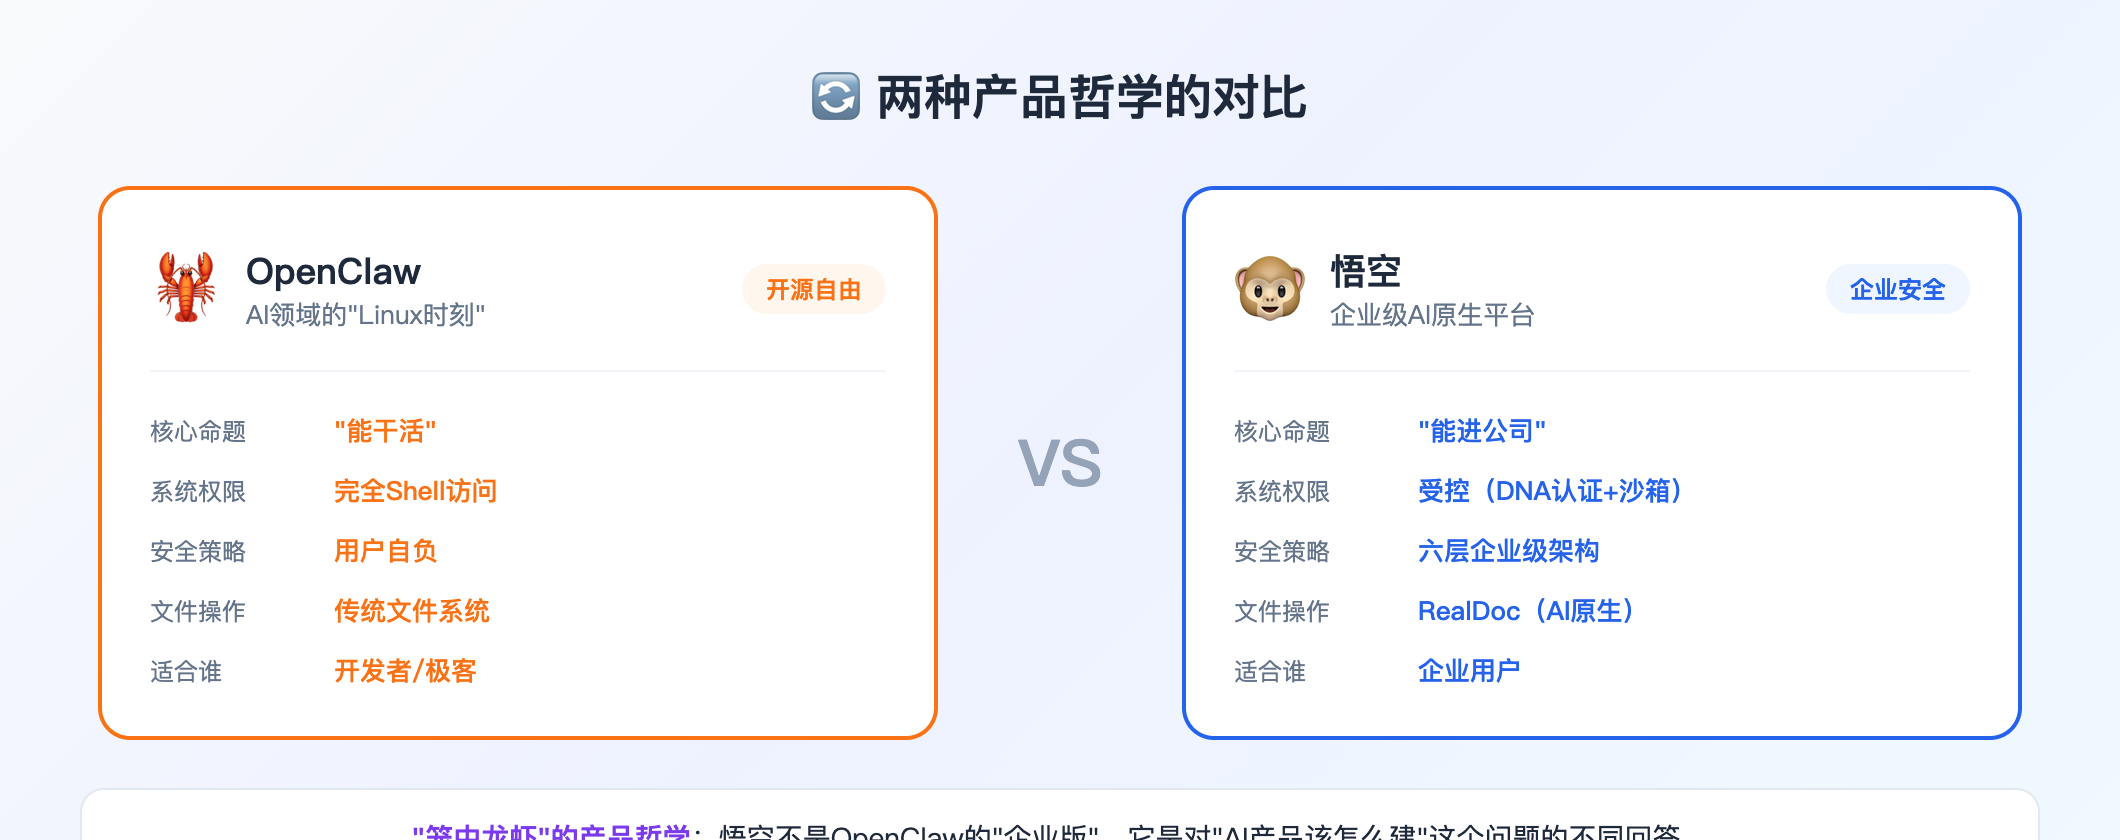
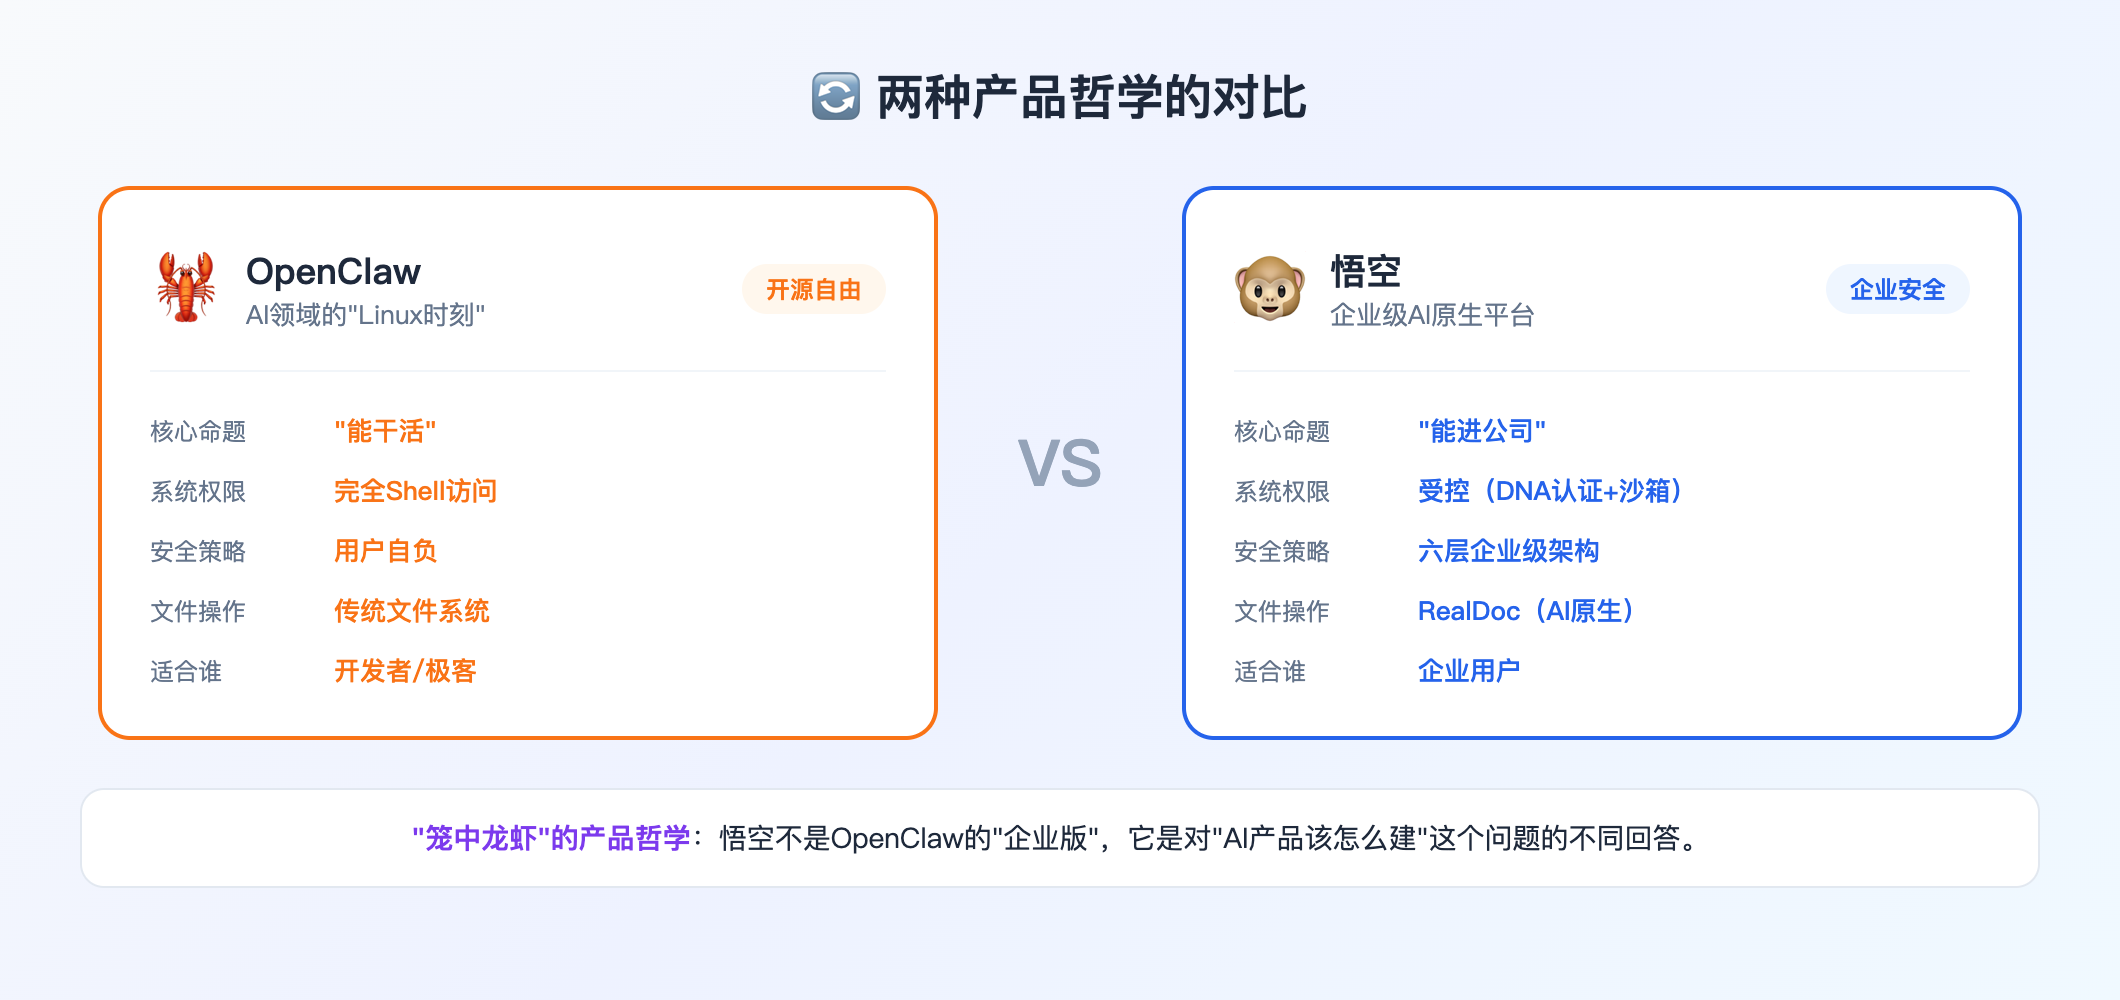
fix: 修复KIM Doc文章截图高度问题
1. 修改标题为：AI产品洞察：与其抄Claw，不如学学悟空，构建更有价值的产品
2. 修复wukong-06-comparison.html高度不足问题（420px→500px）
3. 修复wukong-04-realdoc.html高度不足问题（420px→450px）
4. 重新生成所有7张章节截图

diff --git a/02-deep-research/topics/kim-docs/images/wukong-04-realdoc.html b/02-deep-research/topics/kim-docs/images/wukong-04-realdoc.html
@@ -6,13 +6,13 @@
         * { margin: 0; padding: 0; box-sizing: border-box; }
         html, body { 
             width: 1060px; 
-            height: 420px; 
+            height: 450px; 
             overflow: hidden; 
             font-family: -apple-system, "SF Pro Display", "Noto Sans SC", sans-serif;
         }
         .container {
             width: 1060px;
-            height: 420px;
+            height: 450px;
             background: linear-gradient(135deg, #f8fafc 0%, #eef2ff 50%, #f0f9ff 100%);
             padding: 32px 40px;
         }

diff --git a/02-deep-research/topics/kim-docs/images/wukong-06-comparison.html b/02-deep-research/topics/kim-docs/images/wukong-06-comparison.html
@@ -6,13 +6,13 @@
         * { margin: 0; padding: 0; box-sizing: border-box; }
         html, body { 
             width: 1060px; 
-            height: 420px; 
+            height: 500px; 
             overflow: hidden; 
             font-family: -apple-system, "SF Pro Display", "Noto Sans SC", sans-serif;
         }
         .container {
             width: 1060px;
-            height: 420px;
+            height: 500px;
             background: linear-gradient(135deg, #f8fafc 0%, #eef2ff 50%, #f0f9ff 100%);
             padding: 32px 40px;
         }

diff --git a/02-deep-research/topics/kim-docs/wukong-product-philosophy.md b/02-deep-research/topics/kim-docs/wukong-product-philosophy.md
@@ -1,4 +1,4 @@
-# 企业办公：与其抄Claw，不如学学悟空怎么把龙虾关进笼子
+# AI产品洞察：与其抄Claw，不如学学悟空，构建更有价值的产品
 
 **从"笼中龙虾"看企业级AI Agent的正确建设方式——不是加功能，是重新定义"谁来操作"**
 